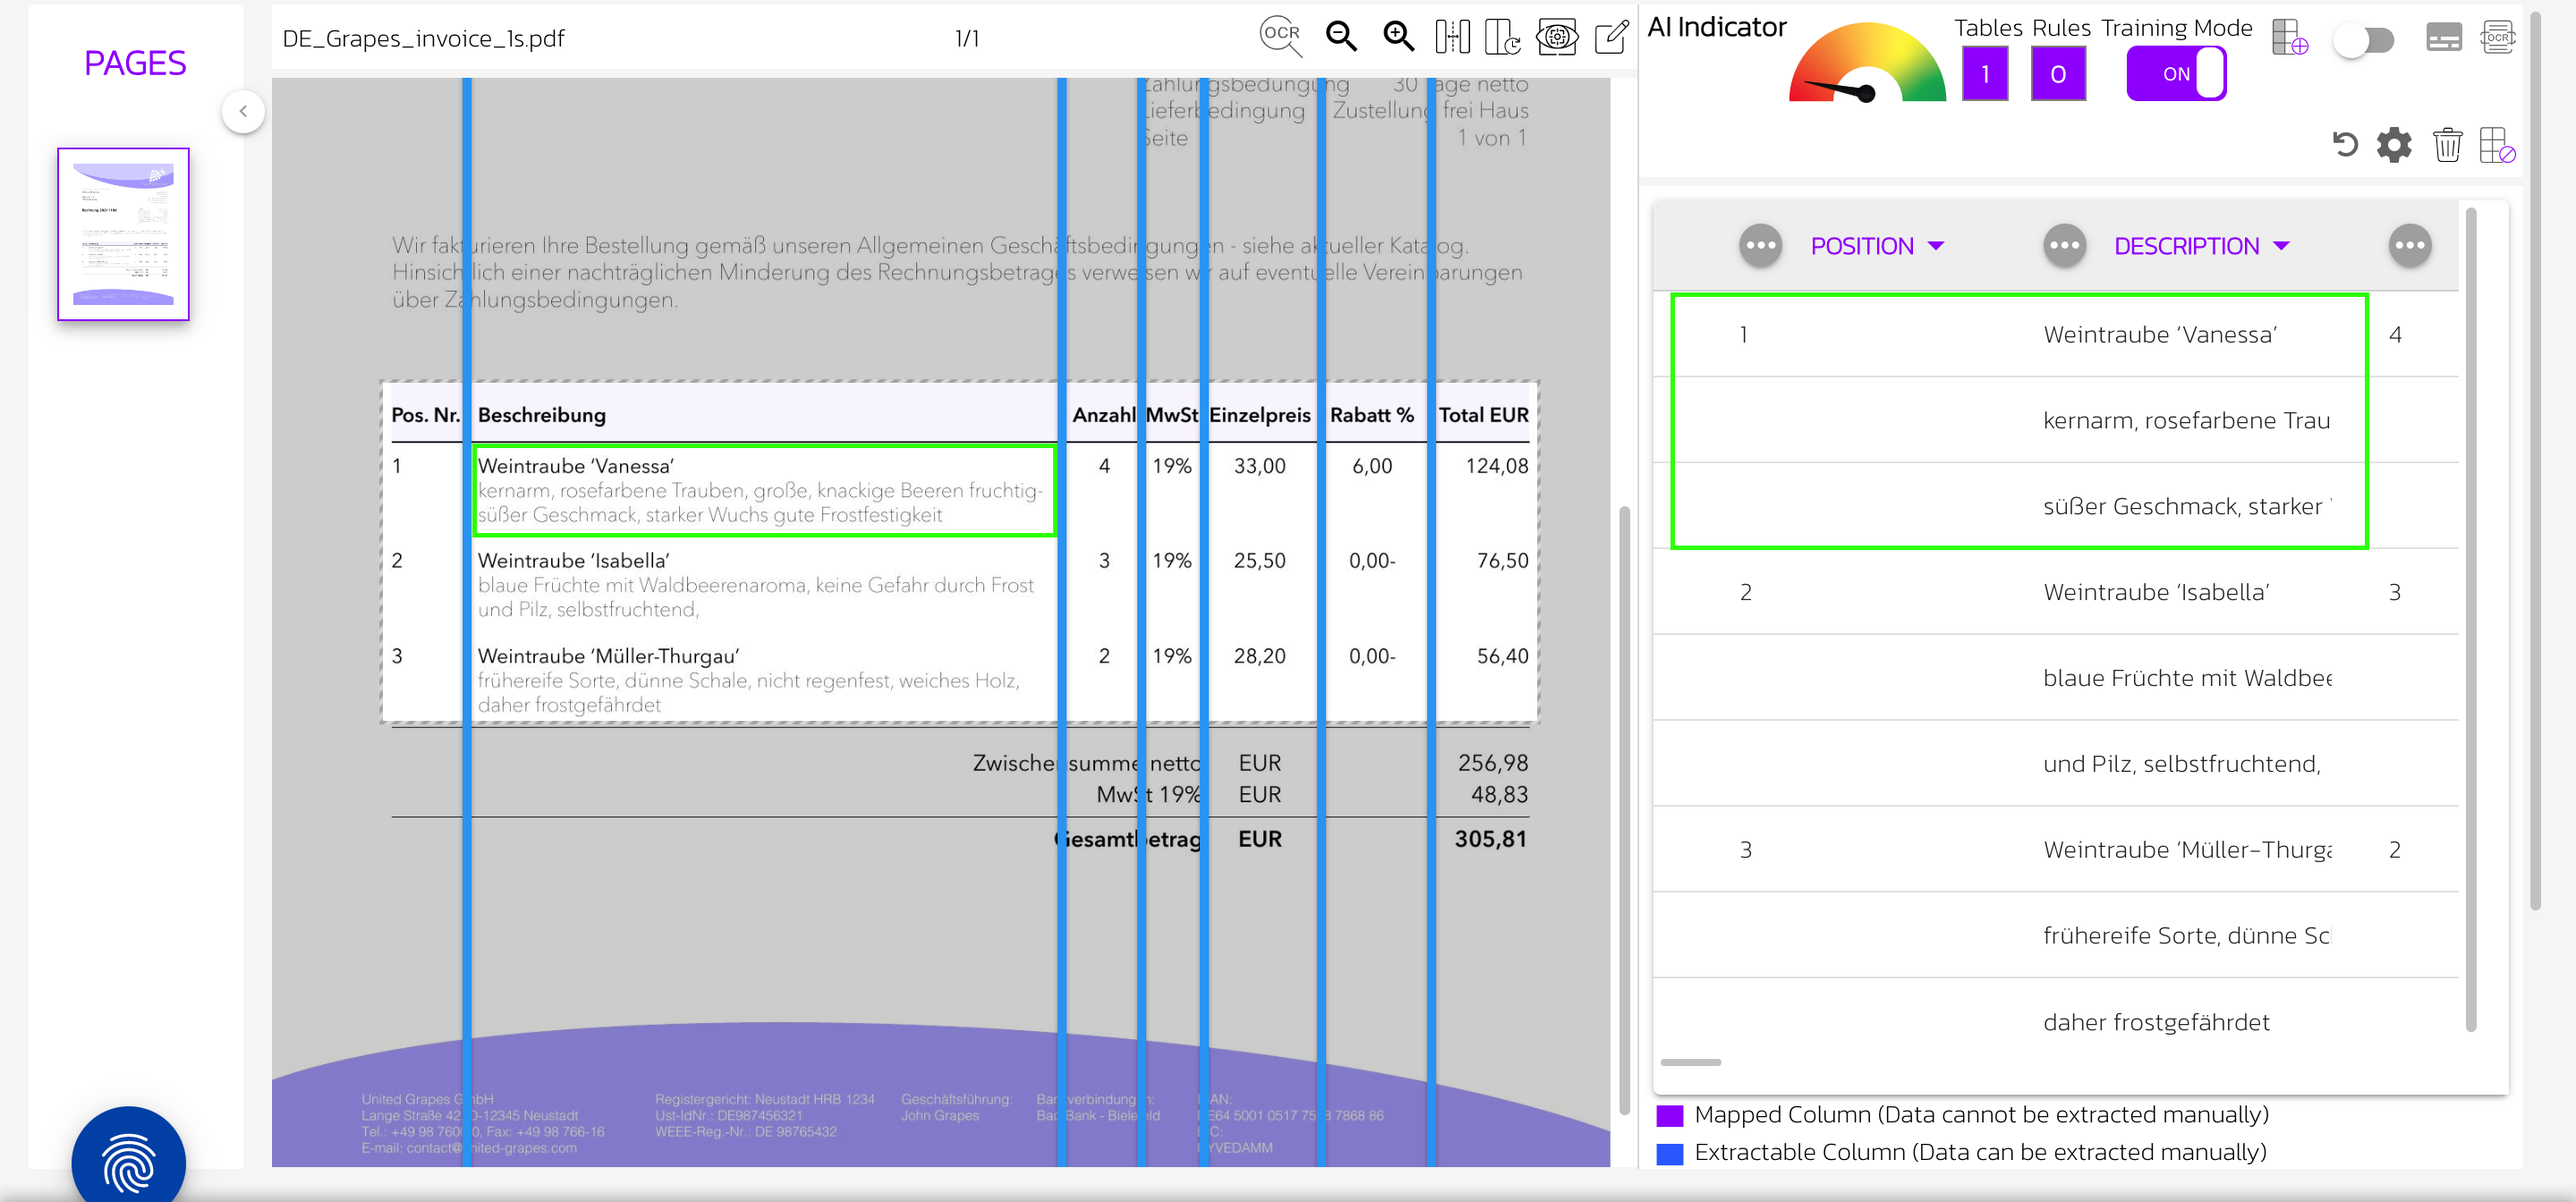
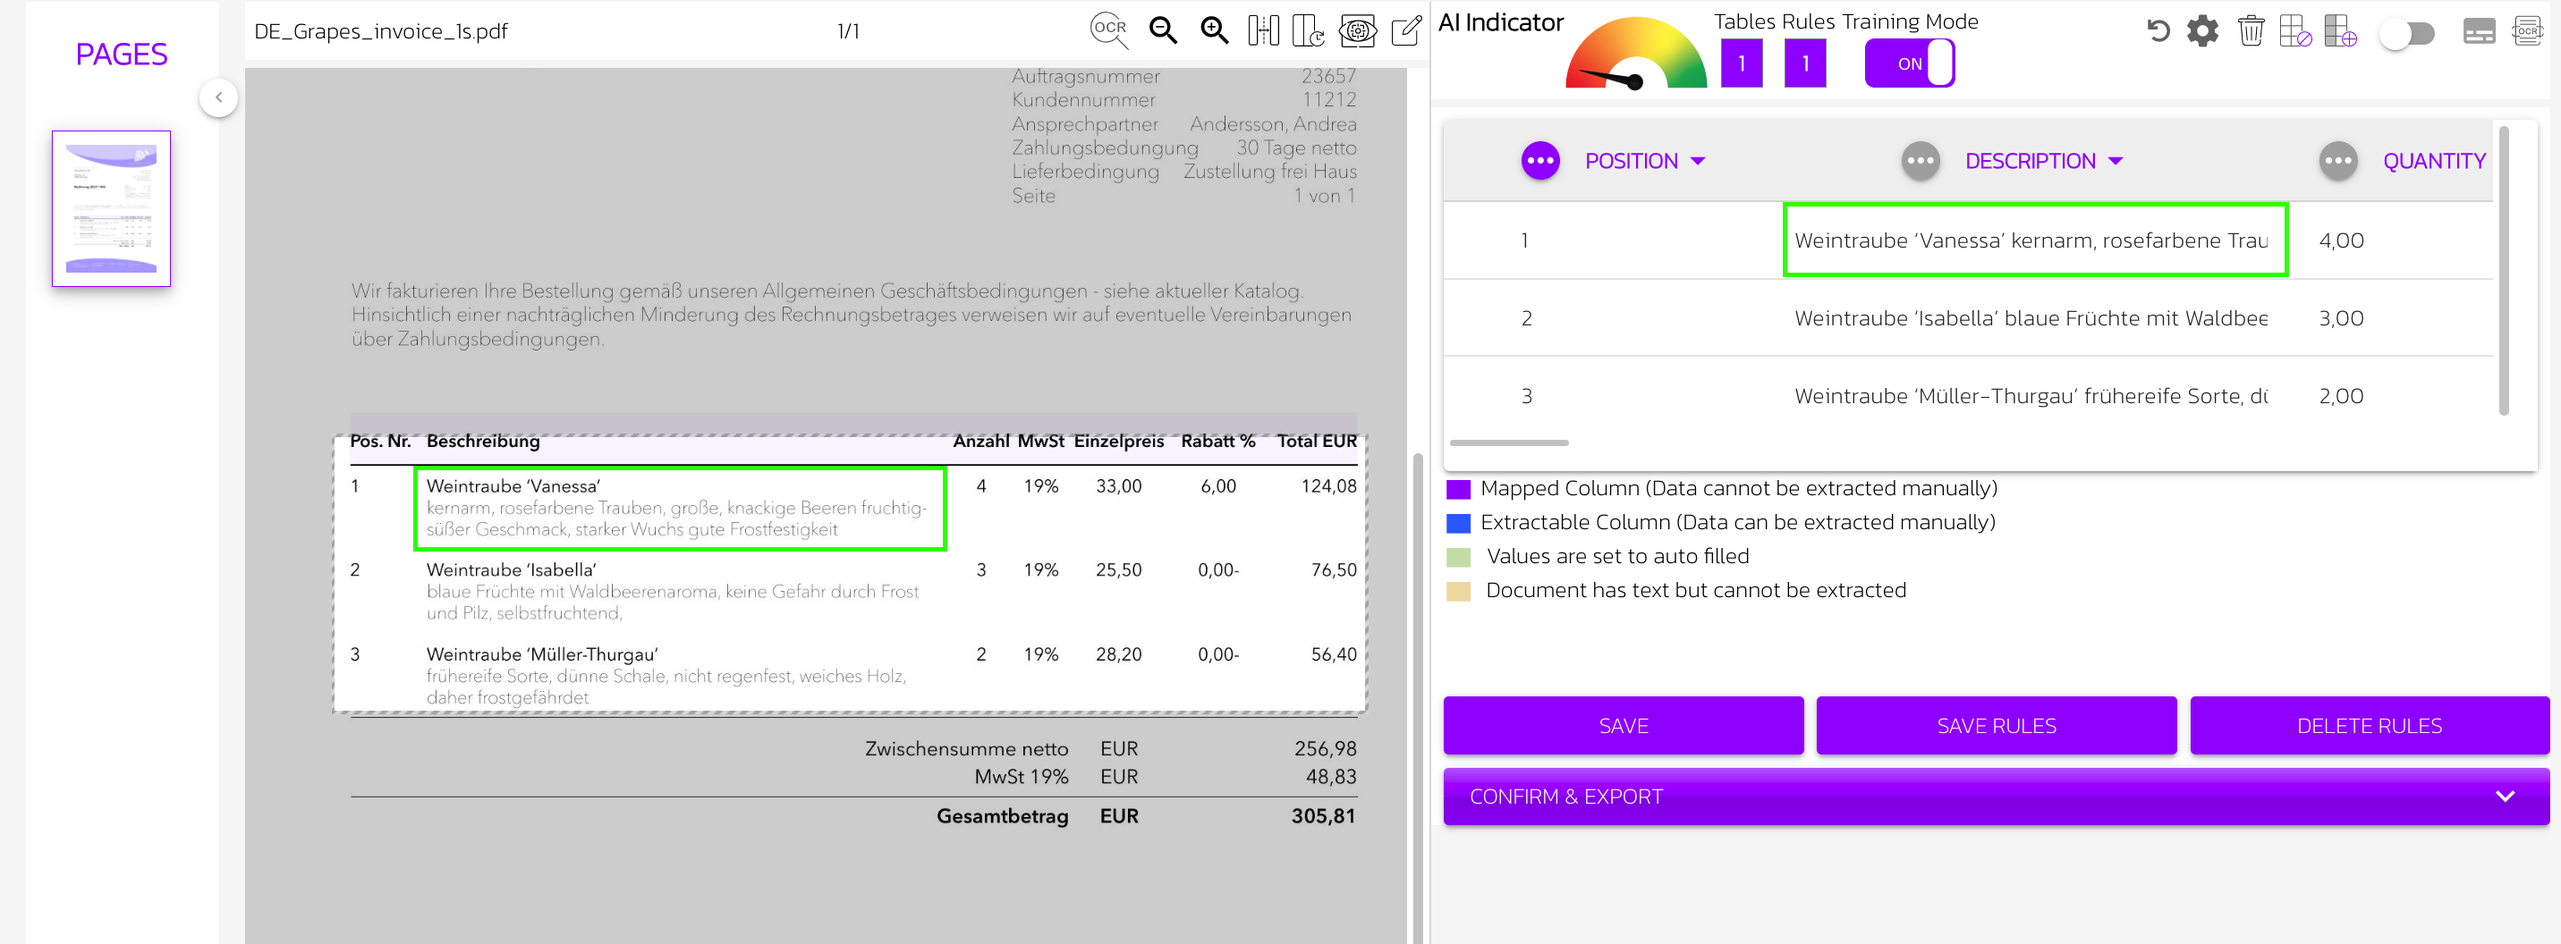
fix TE advanced settings

diff --git a/docs/doc2/table-extraction/advanced-settings.md b/docs/doc2/table-extraction/advanced-settings.md
@@ -41,7 +41,7 @@ Why is this needed? It might be that DOC² does not recognize the second line in
 
 ##### Move Extra Rows to
 
-In this example, the item description in the table spans multiple lines. To extract all rows and include them in the Description column, select `Move Extra Rows to` `DESCRIPTION`.
+In this example, the item description in the table spans several rows, but you only need the first one. To extract only this and include it in the Description column, select `Move Extra Rows to` `Trash`.
 
 ![](/_images/doc2/advanced-settings_11.png){ loading=lazy }
 ![](/_images/doc2/advanced-settings_12.png){ loading=lazy }
